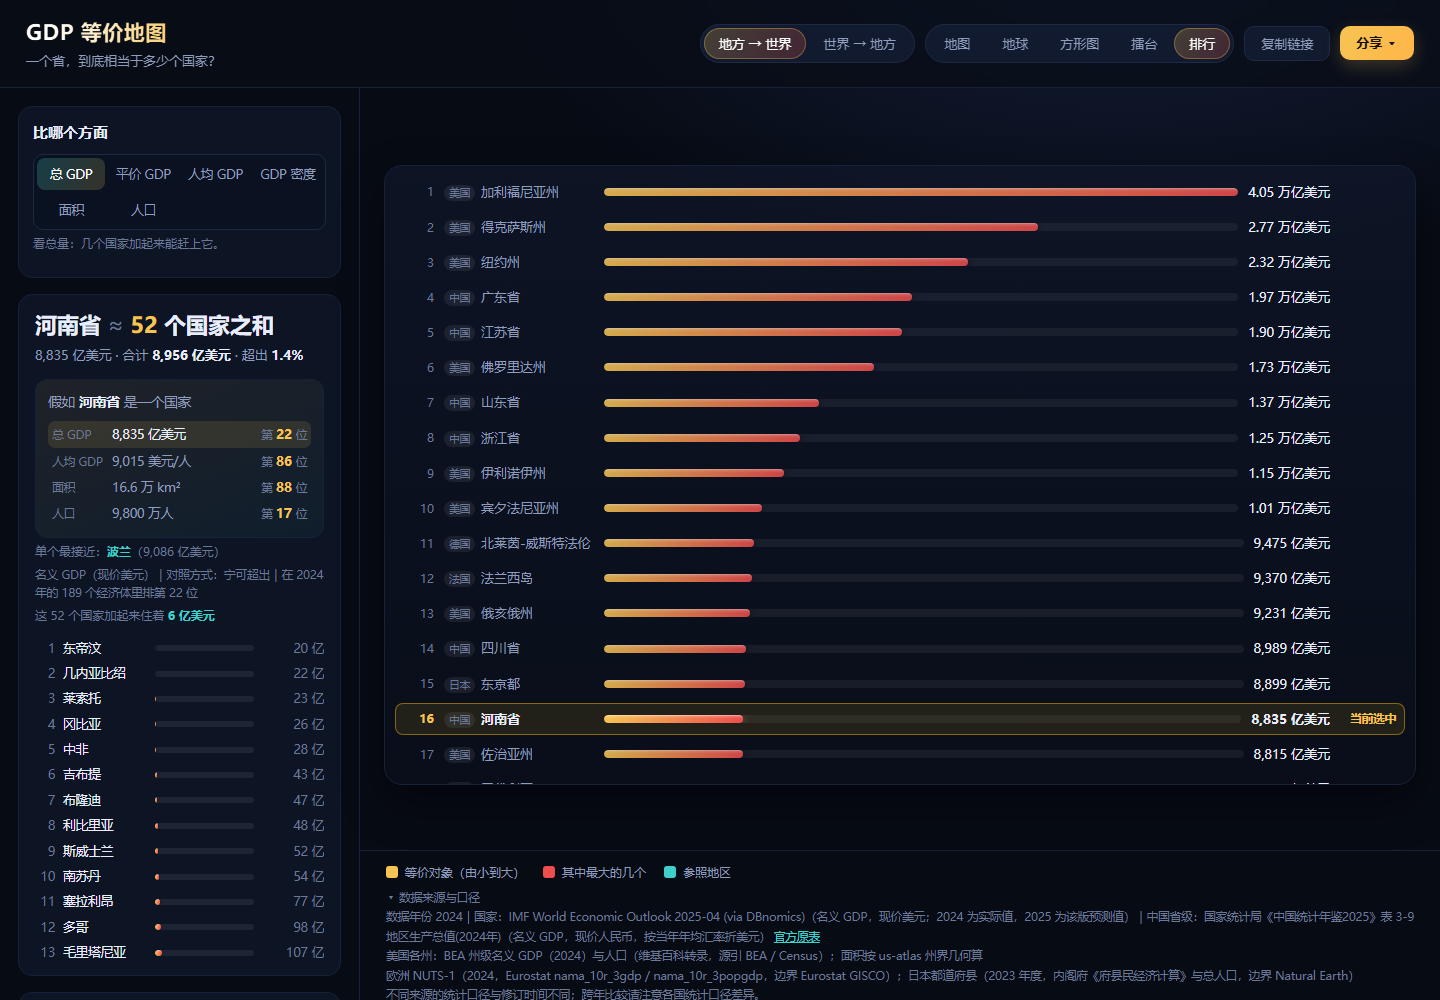
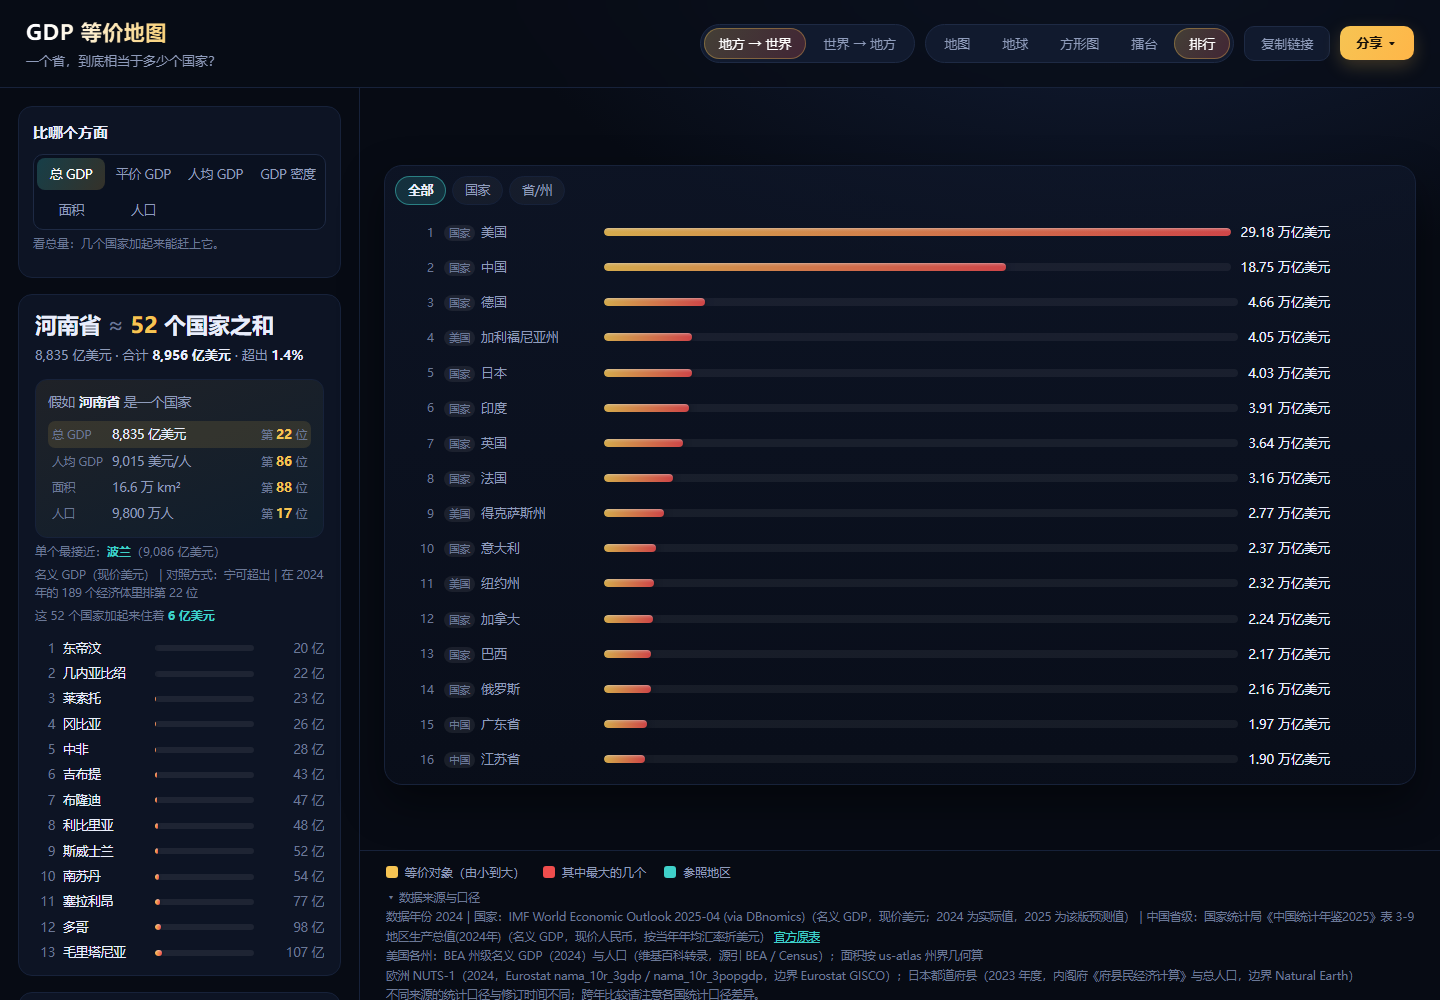
docs: document the two-color comparison and the mixed ranking board
Record the new rules in AGENTS.md, describe them in the README, and
refresh the ranking preview so the picture matches what the board now
shows.

Changed region(s): [[0.25, 0.155, 1.0, 0.775]]

diff --git a/AGENTS.md b/AGENTS.md
@@ -15,7 +15,7 @@
 ## 2. 现状
 
 已经跑起来了：数据管线、2D 地图、3D 地球、搜索、URL 分享、PNG 导出全部可用，
-浏览器级验收 66 项全过，CI（typecheck / 单测 / 构建 / 浏览器验收）已接上。
+浏览器级验收 71 项全过，CI（typecheck / 单测 / 构建 / 浏览器验收）已接上。
 
 ```
 046/
@@ -124,6 +124,19 @@
     ⚠ 数字滚动是**直接改 DOM 文本**，不走 setState：结果列表有五十多行，每帧重渲染整棵子树会掉帧。
     ⚠ 导出不受动效影响：导出用的是 state 里的最终字符串，而 `export.ts` 注入的 `SVG_STYLE`
     里写着 `.country { transition: none }`，图片不会被拍到过渡中间的颜色。
+25. **两个参照物要用两种颜色。** 两个地方对比时，地图上两个都得画出来，
+    而且要分得清谁是谁：第一个青（`PALETTE.source`）、第二个紫（`PALETTE.source2`），
+    图例直接写上两个名字。一种颜色画两个形状，读者只能靠位置猜。
+    ⚠ 颜色只有两种，第三个参照物复用青色；
+    两个参照物落在同一块地面上（同一份几何）时退回一种颜色——
+    宁可少一种颜色，也不要画一个看不出来的「区分」。
+26. **排行榜要把国家也排进去。** 之前榜上只有「能选的对象」，
+    于是「假如广东是一个国家」那个名次在榜上根本没法核对。
+    现在国家与省/州同榜，国家侧用**参照物自己那一年**（与名次卡同口径），
+    榜上读到的名次就是名次卡给的那个名次。
+    榜上可切「只看国家 / 只看省/州」；切了范围之后，被筛掉的那个选中项要说清楚它去哪了。
+    点榜上的一条要切对照方向（点国家 → 世界→省/州，点省/州 → 省/州→世界），
+    不然会出现「点了等于没点」。
 
 ## 4. 已知的技术坑（改代码前先看这里）
 
@@ -194,7 +207,7 @@
 
 - `npm run typecheck` 无错
 - `npm run test` 全绿（核心算法单测）
-- `npm run acceptance` 66 项全过（**自带服务器**，不用先起 dev server；
+- `npm run acceptance` 71 项全过（**自带服务器**，不用先起 dev server；
   想对着 dev server 跑就 `node scripts/acceptance.mjs http://localhost:5173`）
 - `npm run build` 成功产出 `dist/`
 - 页脚数据来源与官方原表链接可点、可见

diff --git a/README.md b/README.md
@@ -49,7 +49,8 @@
 
 再配合「忽略微型经济体（人口不足 100 万）」开关，可以把图瓦卢、瑙鲁这类微型国家从结果里剔掉。
 选**两个**地方时，结果卡会多出一块「两个目标对比」：总量、人均、面积、人口逐项摆开，并说清谁大多少
-（「广东省是河南省的 2.2 倍」「广东省高出 71.3%」）。此外还有彩蛋：参照物在世界上排第几位、
+（「广东省是河南省的 2.2 倍」「广东省高出 71.3%」）。地图上两个参照物也用**两种颜色**标出来（青色、紫色），
+图例直接写上两个名字，看得出谁是谁。此外还有彩蛋：参照物在世界上排第几位、
 这批国家一共住着多少人、**同一比例尺的面积剪影对照**（河南 vs 突尼斯并排一比，谁大谁小一眼可见）。
 
 - **2D 世界地图**：Natural Earth 投影，中国省级与美国州界作为细分层叠在国家之上，右下角附南海诸岛小图
@@ -59,7 +60,8 @@
   高亮的是这次对照出来的对象
 - **擂台**：两个地方逐项 PK 打出比分（总 GDP / 平价 / 人均 / 密度 / 面积 / 人口），右边是省/州前 16 名的对阵树
 - **排行榜**：把对象按当前指标排成条形榜。它回答名次卡回答不了的那句「我选的这个，在同类里到底排第几」——
-  不只给名次，还把前后邻居有多大摆出来
+  不只给名次，还把前后邻居有多大摆出来。**国家和省/州排在同一张榜上**（国家侧取参照物自己那一年），
+  所以「假如它是一个国家」那个名次可以直接在榜上核对；榜上可切「只看国家 / 只看省/州」
 - **年份回溯**：国家侧的数据可回到 1990 年。把滑块往前拨，看「今天这个地方放在当年是什么水平」——
   2024 年的河南相当于 1990 年的 75 个国家，排名也在面板里写明是第几年的第几名。
   按「▶ 播放」让它**从 1990 自己走到 2025**，看这个地方的体量怎么变（结论数字会滚动、地图高亮会渐变）
